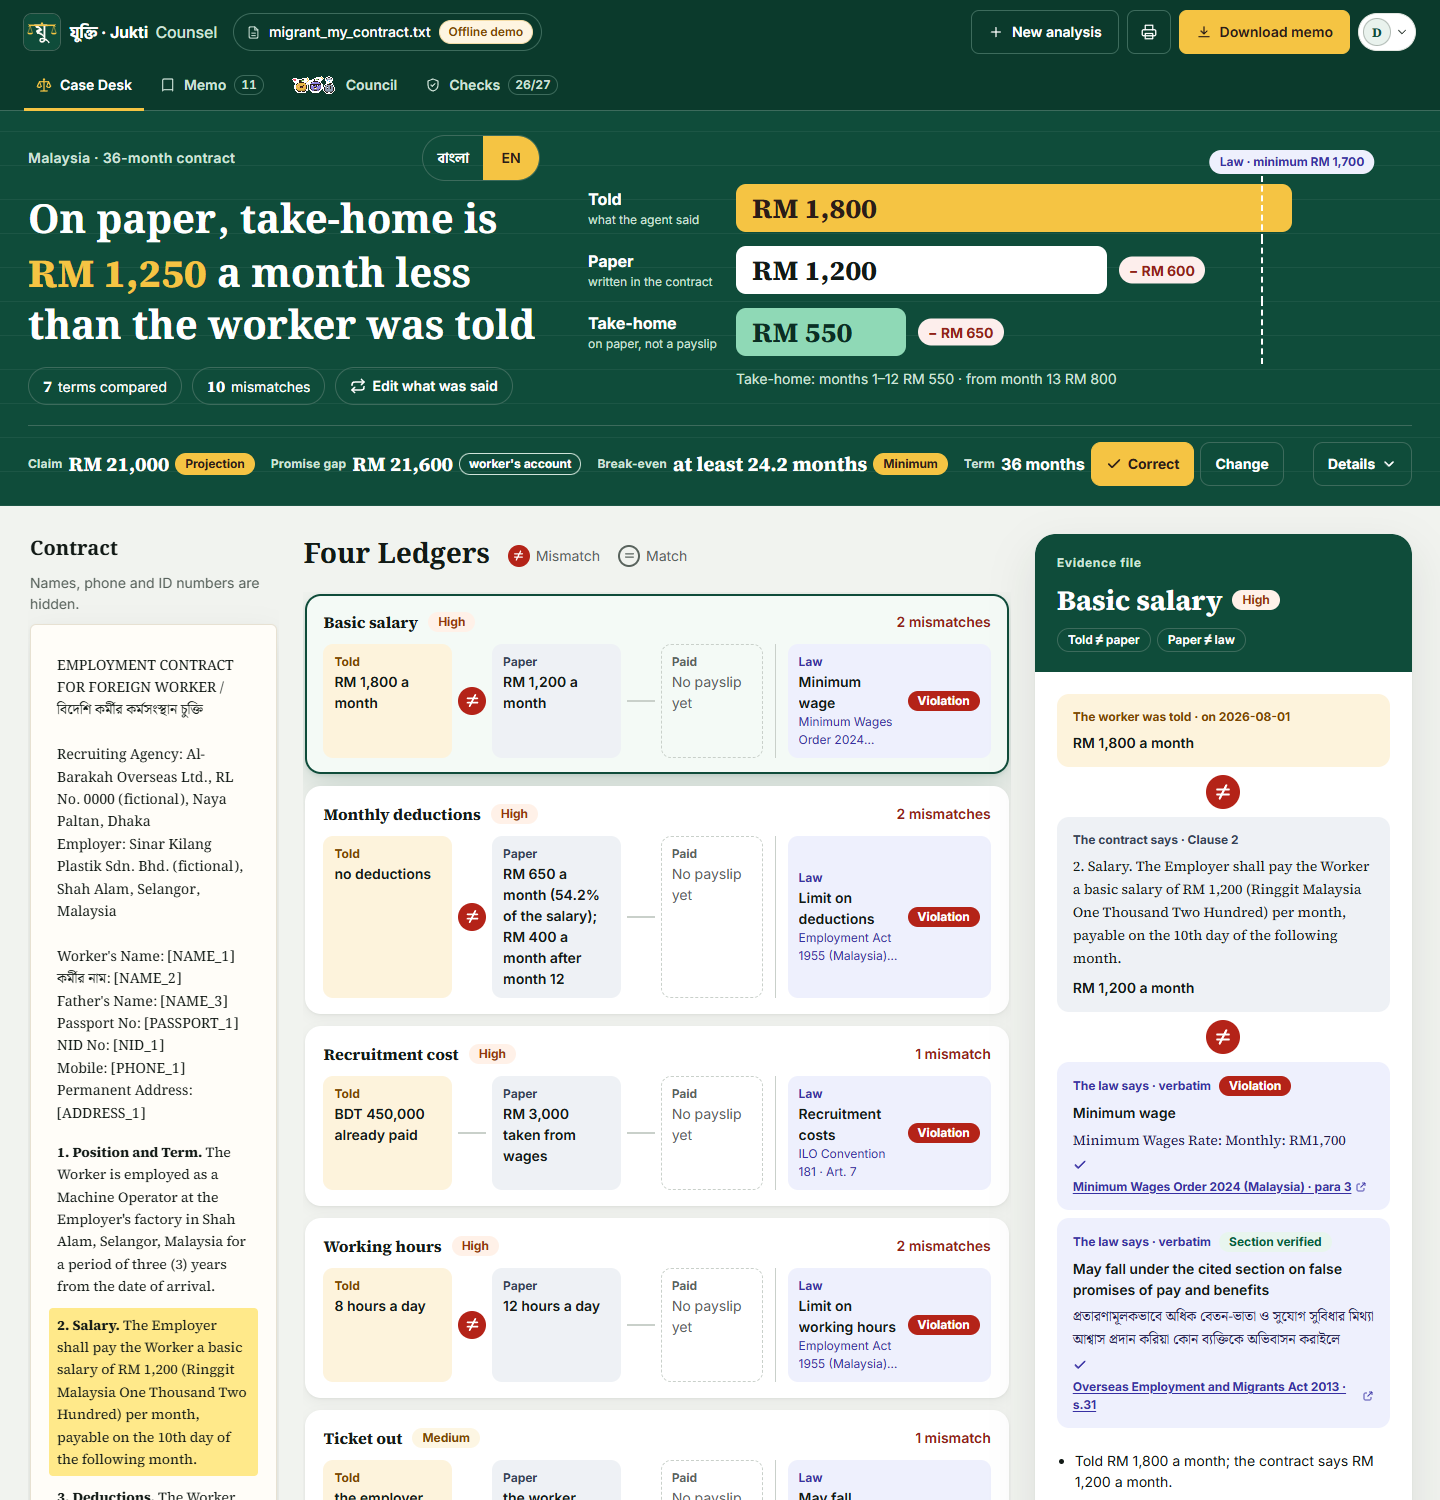
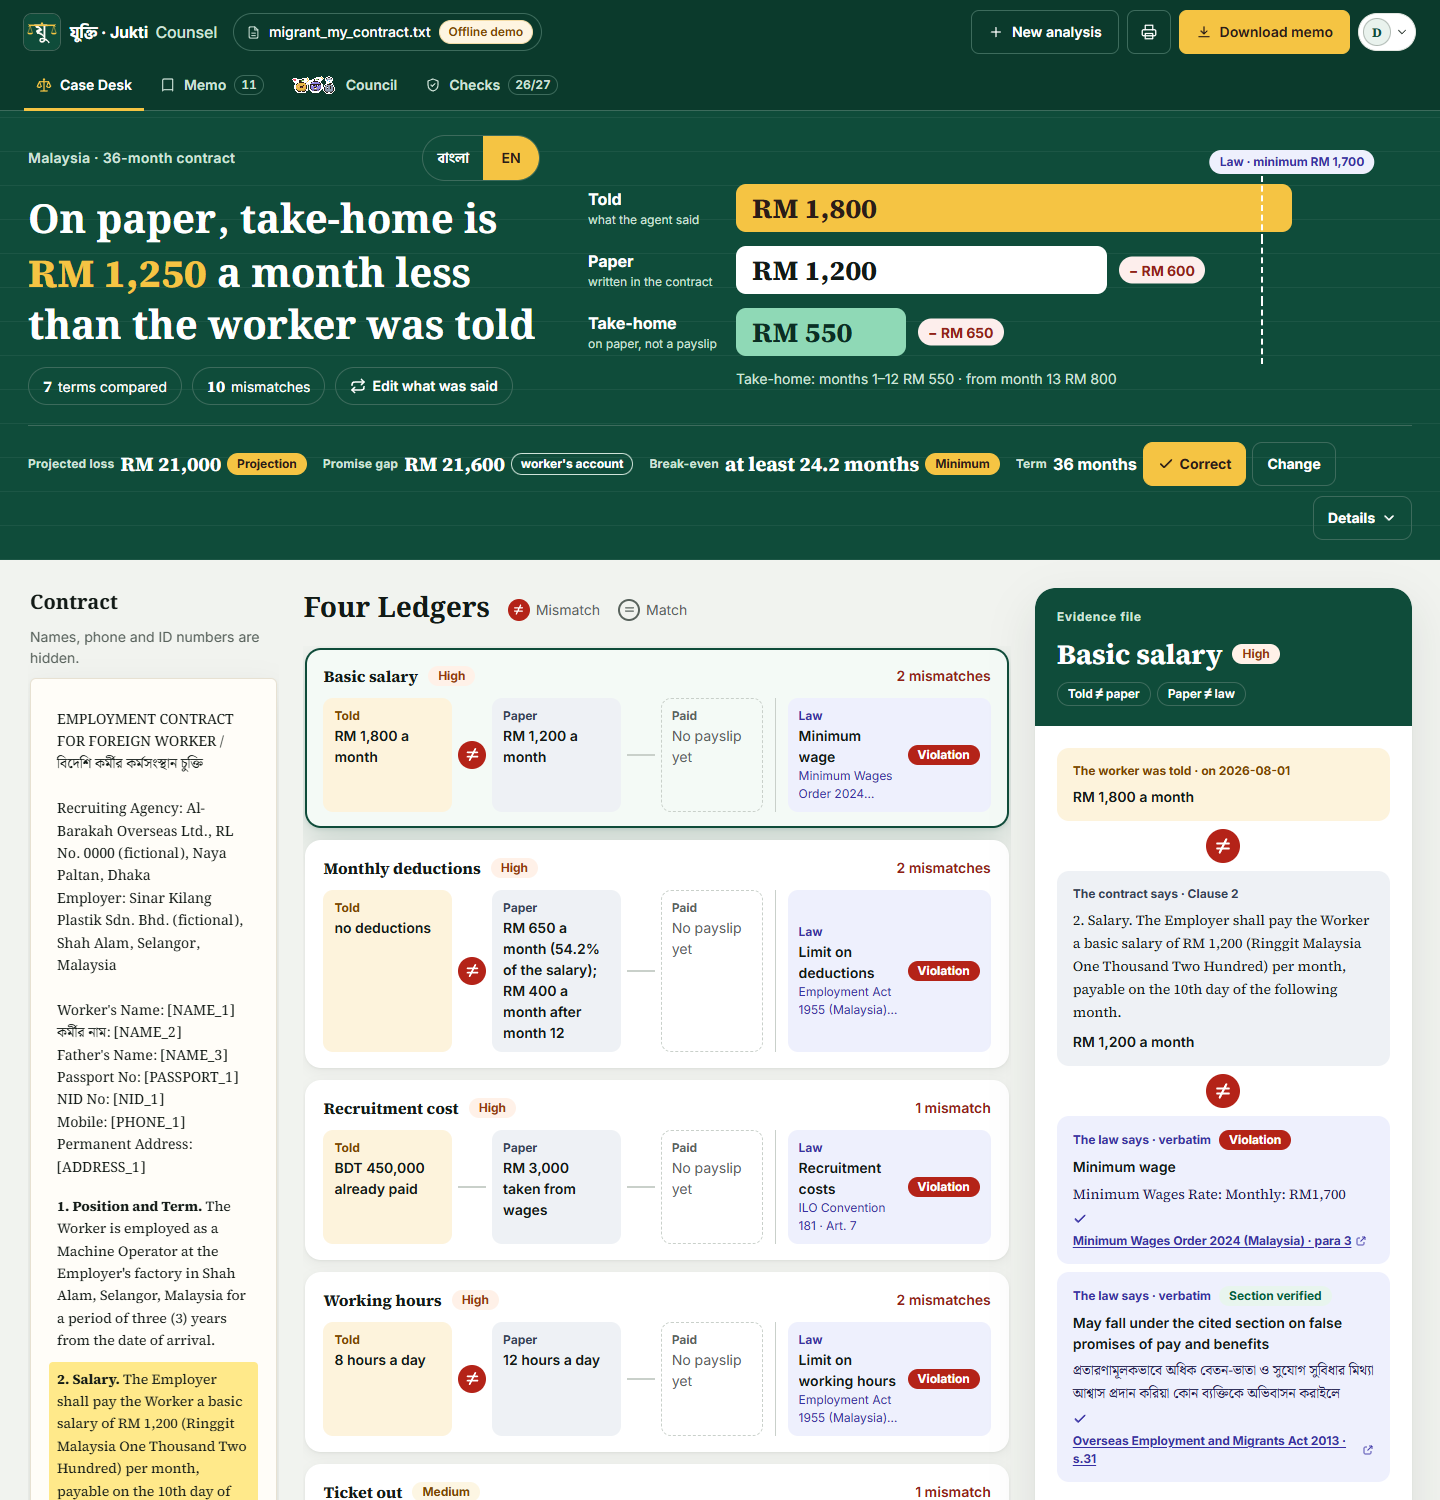
Hero label: "Projected loss" before the projected total
"দাবি" / "Claim" becomes "প্রক্ষেপিত ক্ষতি" / "Projected loss". Two 1440 screenshots retaken.

diff --git a/web/src/lib/desk/i18n.ts b/web/src/lib/desk/i18n.ts
@@ -83,7 +83,7 @@ export const DESK = {
     rate: { bn: "ব্যবহারকারীর দেওয়া হার", en: "User-entered rate" },
     account: { bn: "কর্মীর কথা", en: "worker's account" },
     // short labels for the compact row; the full ones head the details
-    claimShort: { bn: "দাবি", en: "Claim" },
+    claimShort: { bn: "প্রক্ষেপিত ক্ষতি", en: "Projected loss" },
     breakEvenShort: { bn: "খরচ উঠতে", en: "Break-even" },
     details: { bn: "বিস্তারিত", en: "Details" },
     detailsHide: { bn: "বিস্তারিত লুকান", en: "Hide details" },
